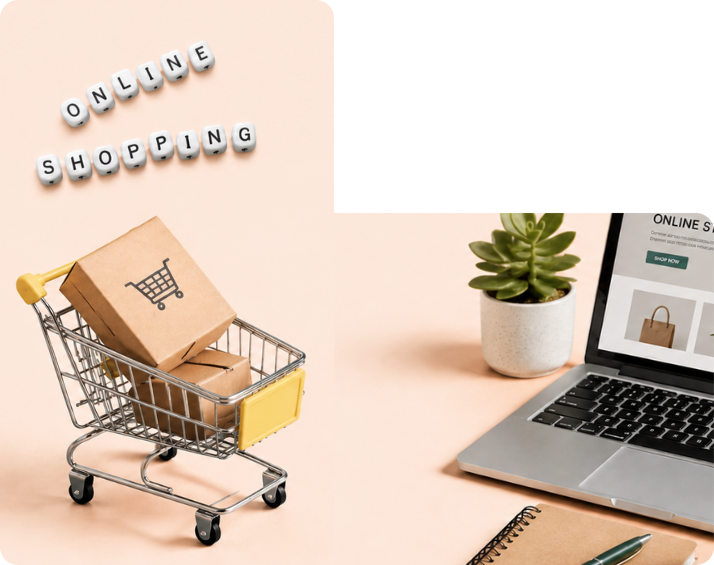
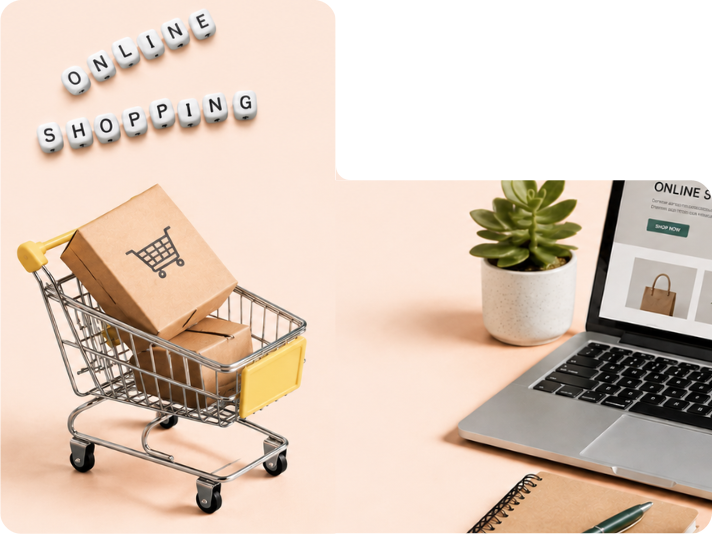
Rebuild the hero on one gutter and a tighter headline
The three headline blocks were sized as a share of the stage while the type
inside them was sized in vw. Past 1370px the container stops growing and the
two scales come apart, which is how the blocks ended up 1.68x the height of
their own words — a lot of orange around not much text. The stage is now a
container and every measurement in it is a cqw, so the blocks and the type
scale together; the block is 1.5x the type at any width, which is roughly the
line box and nothing more.

The photo and the blocks also passed each other at four different distances
(28, 48, 44 and 19px). They now share one gutter, repeated at all five places
the two shapes meet, including the chart card. The photo's cut-out is baked
into the asset, so its proportions drive the rest: the block height is the
notch depth and the arm width places the middle block. The asset is re-cut to
suit, and the corners it turns back on itself are filleted rather than left
square — as are the three in the block staircase, drawn as inward arcs since
border-radius only rounds a corner outward.

The subtext and buttons now hang off the bottom of the stage rather than a
fixed offset, so the buttons stay level with the bottom of the photo whatever
they measure.

Changed region(s): [[0.0, 0.03, 0.4326, 0.9888], [0.4635, 0.2996, 1.0, 1.0], [0.0, 0.9888, 0.0309, 1.0]]

diff --git a/src/components/site/Hero.tsx b/src/components/site/Hero.tsx
@@ -1,3 +1,4 @@
+import type { CSSProperties } from "react";
 import Image from "next/image";
 import Link from "next/link";
 
@@ -30,83 +31,164 @@ function CandleChart({ className }: { className?: string }) {
   );
 }
 
+/* Where two blocks of the staircase meet, the outline turns back on itself.
+   `border-radius` can only round a corner outward, so the inward arc is drawn
+   instead: a small orange tile with a transparent disc bitten out of one
+   corner. Positioned against the corner of the lower block, it reads as one
+   continuous filleted edge. */
+function InsetCorner({ disc, style }: { disc: "bottom left" | "top right"; style: CSSProperties }) {
+  return (
+    <span
+      aria-hidden
+      className="absolute"
+      style={{
+        width: "var(--inset)",
+        height: "var(--inset)",
+        background: `radial-gradient(circle at ${disc}, transparent calc(var(--inset) - 0.5px), var(--color-brand) var(--inset))`,
+        ...style,
+      }}
+    />
+  );
+}
+
+/* Desktop hero geometry, all of it in `cqw` against the stage.
+   ------------------------------------------------------------------
+   The composition is a staircase of three headline blocks with the photo
+   tucked into the step on the left, and one gutter width repeated at every
+   place the two shapes pass each other — headline to photo top, photo arm to
+   the middle block, middle block to the photo's notch, photo to the last
+   block, and headline to the chart card. Because the photo's cut-out is baked
+   into the asset, its own proportions drive the rest: the block height equals
+   the notch depth, and the photo's arm width places the middle block. Keep
+   `public/img/pages/hero-shopping-desk.png` and these numbers in step — the
+   asset is 712x534 with a 336px arm and a 180px notch.
+
+   Everything is a container-query unit rather than `vw` so the type and the
+   boxes stay locked to each other: sized in `vw` they drift apart once the
+   1370px container stops growing, which is what left the blocks looking far
+   too tall for the words inside them. */
+const GUTTER = 3.0;
+const BAR_H = 10.77; // = the photo's notch depth, and 1.5x the type size
+// Headline size. Tailwind needs the literal in the class below, so the two
+// have to be changed together.
+const TYPE = 7.18;
+const PAD = 0.27 * TYPE;
+const TOP = 5.2;
+const RIGHT = 97.4; // right edge of the last block and of the chart card
+
+const PHOTO = { left: 2.2, width: 42.6, height: 31.95 };
+const BARS = [
+  { text: "The high street of", left: 2.2, width: 67.92, radius: "1.3cqw 1.3cqw 0 1.3cqw", delay: 0 },
+  { text: "AI tools for", left: 25.3, width: 44.82, radius: "0 0 0 1.3cqw", delay: 90 },
+  { text: "ecommerce.", left: 47.8, width: 49.6, radius: "0 1.3cqw 1.3cqw 1.3cqw", delay: 180 },
+];
+
 export default function Hero() {
   return (
     <section className="relative overflow-hidden pt-10 pb-10 lg:pt-4 lg:pb-6">
       <div className="mx-auto w-full max-w-[1370px] px-6">
-        {/* Desktop: an absolutely-composed stage so the offset blocks, the
-            full-bleed photo and the chart card land exactly where Figma puts
-            them (frame 1459x812 below the nav; every value below is that
-            frame's own percentage). */}
-        <div className="relative hidden aspect-[1459/812] w-full lg:block">
-          {/* The photo is an L-shaped cut-out whose notch sits under the
-              "AI tools for" block. Left edge lines up with the headline
-              blocks; the width below is chosen so the bottom edge lands on
-              the CTA row's baseline (both scale with the stage, so they stay
-              aligned at every width). */}
+        {/* Desktop: an absolutely-composed stage. `@container` makes it the
+            reference box for every `cqw` below. */}
+        <div
+          className="@container relative hidden w-full lg:block"
+          style={{ aspectRatio: `100 / ${TOP + BAR_H + GUTTER + PHOTO.height}`, "--inset": "0.87cqw" } as CSSProperties}
+        >
+          {/* The cut-out photo. Its top edge sits a gutter below the first
+              block and its notch a gutter below the second, which the asset's
+              own proportions guarantee at every width. */}
           <Image
             src="/img/pages/hero-shopping-desk.png"
             alt="A shopping trolley of parcels on a desk beside a laptop showing an online store"
-            width={714}
-            height={565}
+            width={712}
+            height={534}
             priority
-            sizes="(min-width: 1024px) 42vw, 100vw"
+            sizes="(min-width: 1024px) 44vw, 100vw"
             className="hero-enter-scale absolute h-auto"
-            style={{ left: "2.19%", top: "34.95%", width: "41.77%", animationDelay: "150ms" }}
+            style={{
+              left: `${PHOTO.left}cqw`,
+              top: `${TOP + BAR_H + GUTTER}cqw`,
+              width: `${PHOTO.width}cqw`,
+              animationDelay: "150ms",
+            }}
           />
 
-          {/* Chart card */}
+          {/* Chart card — a gutter clear of the first block's right edge and of
+              the last block's top edge, so it sits in the same grid. */}
           <div
-            className="hero-enter-scale absolute rounded-[10px] bg-[#fae2d2] p-4"
-            style={{ left: "72.52%", top: "11.33%", width: "24.88%", height: "34.71%", animationDelay: "230ms" }}
+            className="hero-enter-scale absolute rounded-[1.3cqw] bg-[#fae2d2] p-[1.2cqw]"
+            style={{
+              left: `${BARS[0].left + BARS[0].width + GUTTER}cqw`,
+              top: `${TOP}cqw`,
+              width: `${RIGHT - (BARS[0].left + BARS[0].width + GUTTER)}cqw`,
+              height: `${2 * BAR_H - GUTTER}cqw`,
+              animationDelay: "230ms",
+            }}
           >
             <CandleChart className="h-full w-full" />
           </div>
 
-          {/* The three orange blocks */}
+          {/* The three headline blocks. Each is exactly one line box tall, so
+              the block hugs the words rather than floating in the middle of a
+              deep bar. */}
           <h1 className="contents font-poppins font-extrabold tracking-[-0.02em] text-white">
-            {[
-              { text: "The high street of", left: "2.19%", top: "10.34%", width: "67.92%", radius: "rounded-tl-[14px] rounded-tr-[14px] rounded-bl-[14px]", delay: 0 },
-              { text: "AI tools for", left: "25.36%", top: "30.79%", width: "44.76%", radius: "rounded-bl-[14px]", delay: 90 },
-              { text: "ecommerce.", left: "45.39%", top: "50.37%", width: "52.01%", radius: "rounded-tr-[14px] rounded-br-[14px] rounded-bl-[14px]", delay: 180 },
-            ].map((b) => (
+            {BARS.map((b, i) => (
               <span
                 key={b.text}
-                className={`hero-enter absolute flex items-center bg-brand px-6 text-[clamp(2rem,6.2vw,5.63rem)] leading-none ${b.radius}`}
-                style={{ left: b.left, top: b.top, width: b.width, height: "20.44%", animationDelay: `${b.delay}ms` }}
+                className="hero-enter absolute flex items-center bg-brand px-[0.27em] text-[7.18cqw] leading-none"
+                style={{
+                  left: `${b.left}cqw`,
+                  top: `${TOP + i * BAR_H}cqw`,
+                  width: `${b.width}cqw`,
+                  height: `${BAR_H}cqw`,
+                  borderRadius: b.radius,
+                  animationDelay: `${b.delay}ms`,
+                }}
               >
                 {b.text}
+                {/* Fillets, carried by the lower block of each pair so they
+                    travel with it through the entrance stagger. */}
+                {i > 0 && <InsetCorner disc="bottom left" style={{ left: "calc(-1 * var(--inset))", top: 0 }} />}
+                {i === 2 && (
+                  <InsetCorner
+                    disc="top right"
+                    style={{
+                      left: `${BARS[1].left + BARS[1].width - b.left}cqw`,
+                      top: "calc(-1 * var(--inset))",
+                    }}
+                  />
+                )}
               </span>
             ))}
           </h1>
 
-          {/* Subtext + CTAs */}
-          <p
-            className="hero-enter absolute text-[clamp(1rem,1.65vw,1.5rem)] leading-snug text-body-mute"
-            // Figma butts this straight against the "ecommerce." block; drop it
-            // so it breathes between the block and the CTAs instead.
-            style={{ left: "46.76%", top: "74.2%", width: "51.19%", animationDelay: "300ms" }}
-          >
-            Growmerce turns search into sales by understanding what shoppers
-            actually ask for.
-          </p>
-
+          {/* Subtext and CTAs hang off the bottom of the stage, which is the
+              photo's baseline — so the buttons stay level with the bottom of
+              the photo whatever the CTAs measure. */}
+          {/* The CTAs keep a fixed size while the stage scales, so the column
+              tightens its own spacing before it can crowd the last block. */}
           <div
-            className="hero-enter absolute flex items-center gap-4"
-            style={{ left: "46.76%", top: "87.07%", animationDelay: "380ms" }}
+            className="absolute bottom-0 flex flex-col gap-4 xl:gap-7"
+            style={{ left: `${BARS[2].left + PAD}cqw`, right: 0 }}
           >
-            <Link
-              href="#demo"
-              className="cta-primary"
+            <p
+              className="hero-enter text-[clamp(1rem,1.65vw,1.5rem)] leading-snug text-body-mute"
+              style={{ animationDelay: "300ms" }}
             >
-              See demo
-            </Link>
-            <Link
-              href="#trial"
-              className="cta-secondary"
+              Growmerce turns search into sales by understanding what shoppers
+              actually ask for.
+            </p>
+
+            <div
+              className="hero-enter flex items-center gap-4"
+              style={{ animationDelay: "380ms" }}
             >
-              Try it free
-            </Link>
+              <Link href="#demo" className="cta-primary">
+                See demo
+              </Link>
+              <Link href="#trial" className="cta-secondary">
+                Try it free
+              </Link>
+            </div>
           </div>
         </div>
 
@@ -116,7 +198,7 @@ export default function Hero() {
             {["The high street of", "AI tools for", "ecommerce."].map((line, i) => (
               <span
                 key={line}
-                className={`hero-enter block w-fit bg-brand px-4 pt-2 pb-3 text-[clamp(2.15rem,8.6vw,3.4rem)] leading-[1.02] ${i > 0 ? "mt-2" : ""} ${i === 1 ? "ml-6" : ""}`}
+                className={`hero-enter block w-fit rounded-[10px] bg-brand px-4 pt-2 pb-3 text-[clamp(2.15rem,8.6vw,3.4rem)] leading-[1.02] ${i > 0 ? "mt-2" : ""} ${i === 1 ? "ml-6" : ""}`}
                 style={{ animationDelay: `${i * 100}ms` }}
               >
                 {line}
@@ -141,8 +223,8 @@ export default function Hero() {
           <Image
             src="/img/pages/hero-shopping-desk.png"
             alt="A shopping trolley of parcels on a desk beside a laptop showing an online store"
-            width={714}
-            height={565}
+            width={712}
+            height={534}
             sizes="100vw"
             className="hero-enter-scale mt-8 h-auto w-full"
             style={{ animationDelay: "200ms" }}
